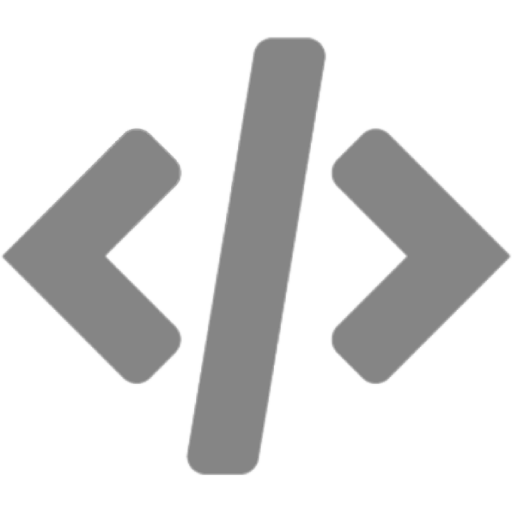
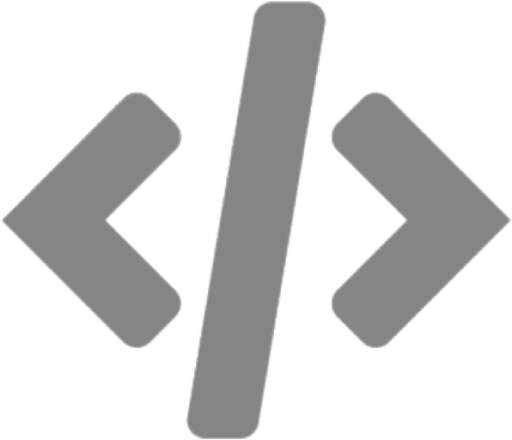
Fixed size for the slide buttons.

diff --git a/material/lectures/Lecture 00 - Introduction.html b/material/lectures/Lecture 00 - Introduction.html
@@ -651,6 +651,8 @@ Get started with GitHub.
 
 		</div>
 
+<!--bottom-->
+
 		<script src="js/reveal.js"></script>
 
 		<script>
@@ -688,19 +690,17 @@ setupcodepanel(1, 'https://liveweave.com/');
 setupcodepanel(2, 'https://webmakerapp.com/app/');
 setupcodepanel(3, 'https://onecompiler.com/nodejs/');
 setupcodepanel(4, 'https://codesandbox.io/');
-// setupcodepanel(5, 'https://glitch.com');
+setupcodepanel(5, 'https://glitch.com');
 
 </script>
 
-		
-		
-
-<div style="display: block; position: fixed; bottom: 5px; left: 5px; margin-left: 0px; z-index: 20;">
-	<a href="https://f28wp.github.io"><img src="images/webhome.png" width="8%"></a>
+	
+<div style="display: block; position: fixed; bottom: 6px; left: 6px; margin-left: 0px; z-index: 20;">
+	<a href="https://f28wp.github.io"><img src="images/webhome.png?id=2" height="30px"></a>
 </div>
 
-<div style="display: block; position: fixed; bottom: 3px; left: 50px; margin-left: 0px; z-index: 20; text-align: left;">
-	<a href="?print-pdf" onclick="window.open(this.href, 'print window', 'width=1000,height=550').print(); return false"><img src="images/webprint.png" width="7.5%"></a>
+<div style="display: block; position: fixed; bottom: 5px; left: 50px; margin-left: 0px; z-index: 20; text-align: left;">
+	<a href="?print-pdf" onclick="window.open(this.href, 'print window', 'width=1000,height=550').print(); return false"><img src="images/webprint.png" height="30px"></a>
 </div>	
 
 <!--
@@ -710,30 +710,30 @@ setupcodepanel(4, 'https://codesandbox.io/');
 -->
 
 <div style="display: block; position: fixed; bottom: 5px; left: 95px; margin-left: 0px; z-index: 200000; text-align: left;">
-	<a href='javascript:void(0)' onclick="togglecodepanel(0);"><img src="./images/webcode.png" width="6.8%"></a>
+	<a href='javascript:void(0)' onclick="togglecodepanel(0);"><img src="./images/webcode.png" height="30px"></a>
 </div>
 
 <div style="display: block; position: fixed; bottom: 5px; left: 140px; margin-left: 0px; z-index: 200000; text-align: left;">
-	<a href='javascript:void(0)' onclick="togglecodepanel(1);"><img src="./images/webcode1.png" width="6.5%"></a>
+	<a href='javascript:void(0)' onclick="togglecodepanel(1);"><img src="./images/webcode1.png" height="30px"></a>
 </div>
 
 <div style="display: block; position: fixed; bottom: 5px; left: 185px; margin-left: 0px; z-index: 200000; text-align: left;">
-	<a href='javascript:void(0)' onclick="togglecodepanel(2);"><img src="./images/webcode2.png" width="6.5%"></a>
+	<a href='javascript:void(0)' onclick="togglecodepanel(2);"><img src="./images/webcode2.png" height="30px"></a>
 </div>
 
 <div style="display: block; position: fixed; bottom: 5px; left: 227px; margin-left: 0px; z-index: 200000; text-align: left;">
-	<a href='javascript:void(0)' onclick="togglecodepanel(3);"><img src="./images/webcode3.png" width="6.5%"></a>
+	<a href='javascript:void(0)' onclick="togglecodepanel(3);"><img src="./images/webcode3.png" height="30px"></a>
 </div>
 
-<div style="display: block; position: fixed; bottom: 5px; left: 270px; margin-left: 0px; z-index: 200000; text-align: left;">
-	<a href='javascript:void(0)' onclick="togglecodepanel(4);"><img src="./images/webcode4.png" width="6.5%"></a>
+<div style="display: block; position: absolute; bottom: 5px; left: 270px; margin-left: 0px; z-index: 200000; text-align: left;">
+	<a href='javascript:void(0)' onclick="togglecodepanel(4);"><img src="./images/webcode4.png" height="30px"></a>
 </div>
 
-<!--
+
 <div style="display: block; position: fixed; bottom: 5px; left: 315px; margin-left: 0px; z-index: 200000; text-align: left;">
-	<a href='javascript:void(0)' onclick="togglecodepanel(5);"><img src="./images/webcode1.png" width="6.5%"></a>
+	<a href='javascript:void(0)' onclick="togglecodepanel(5);"><img src="./images/webcode1.png" height="30px"></a>
 </div>
--->
+
 
 <!-- Global site tag (gtag.js) - Google Analytics -->
 <script async src="https://www.googletagmanager.com/gtag/js?id=UA-148326645-1"></script>
